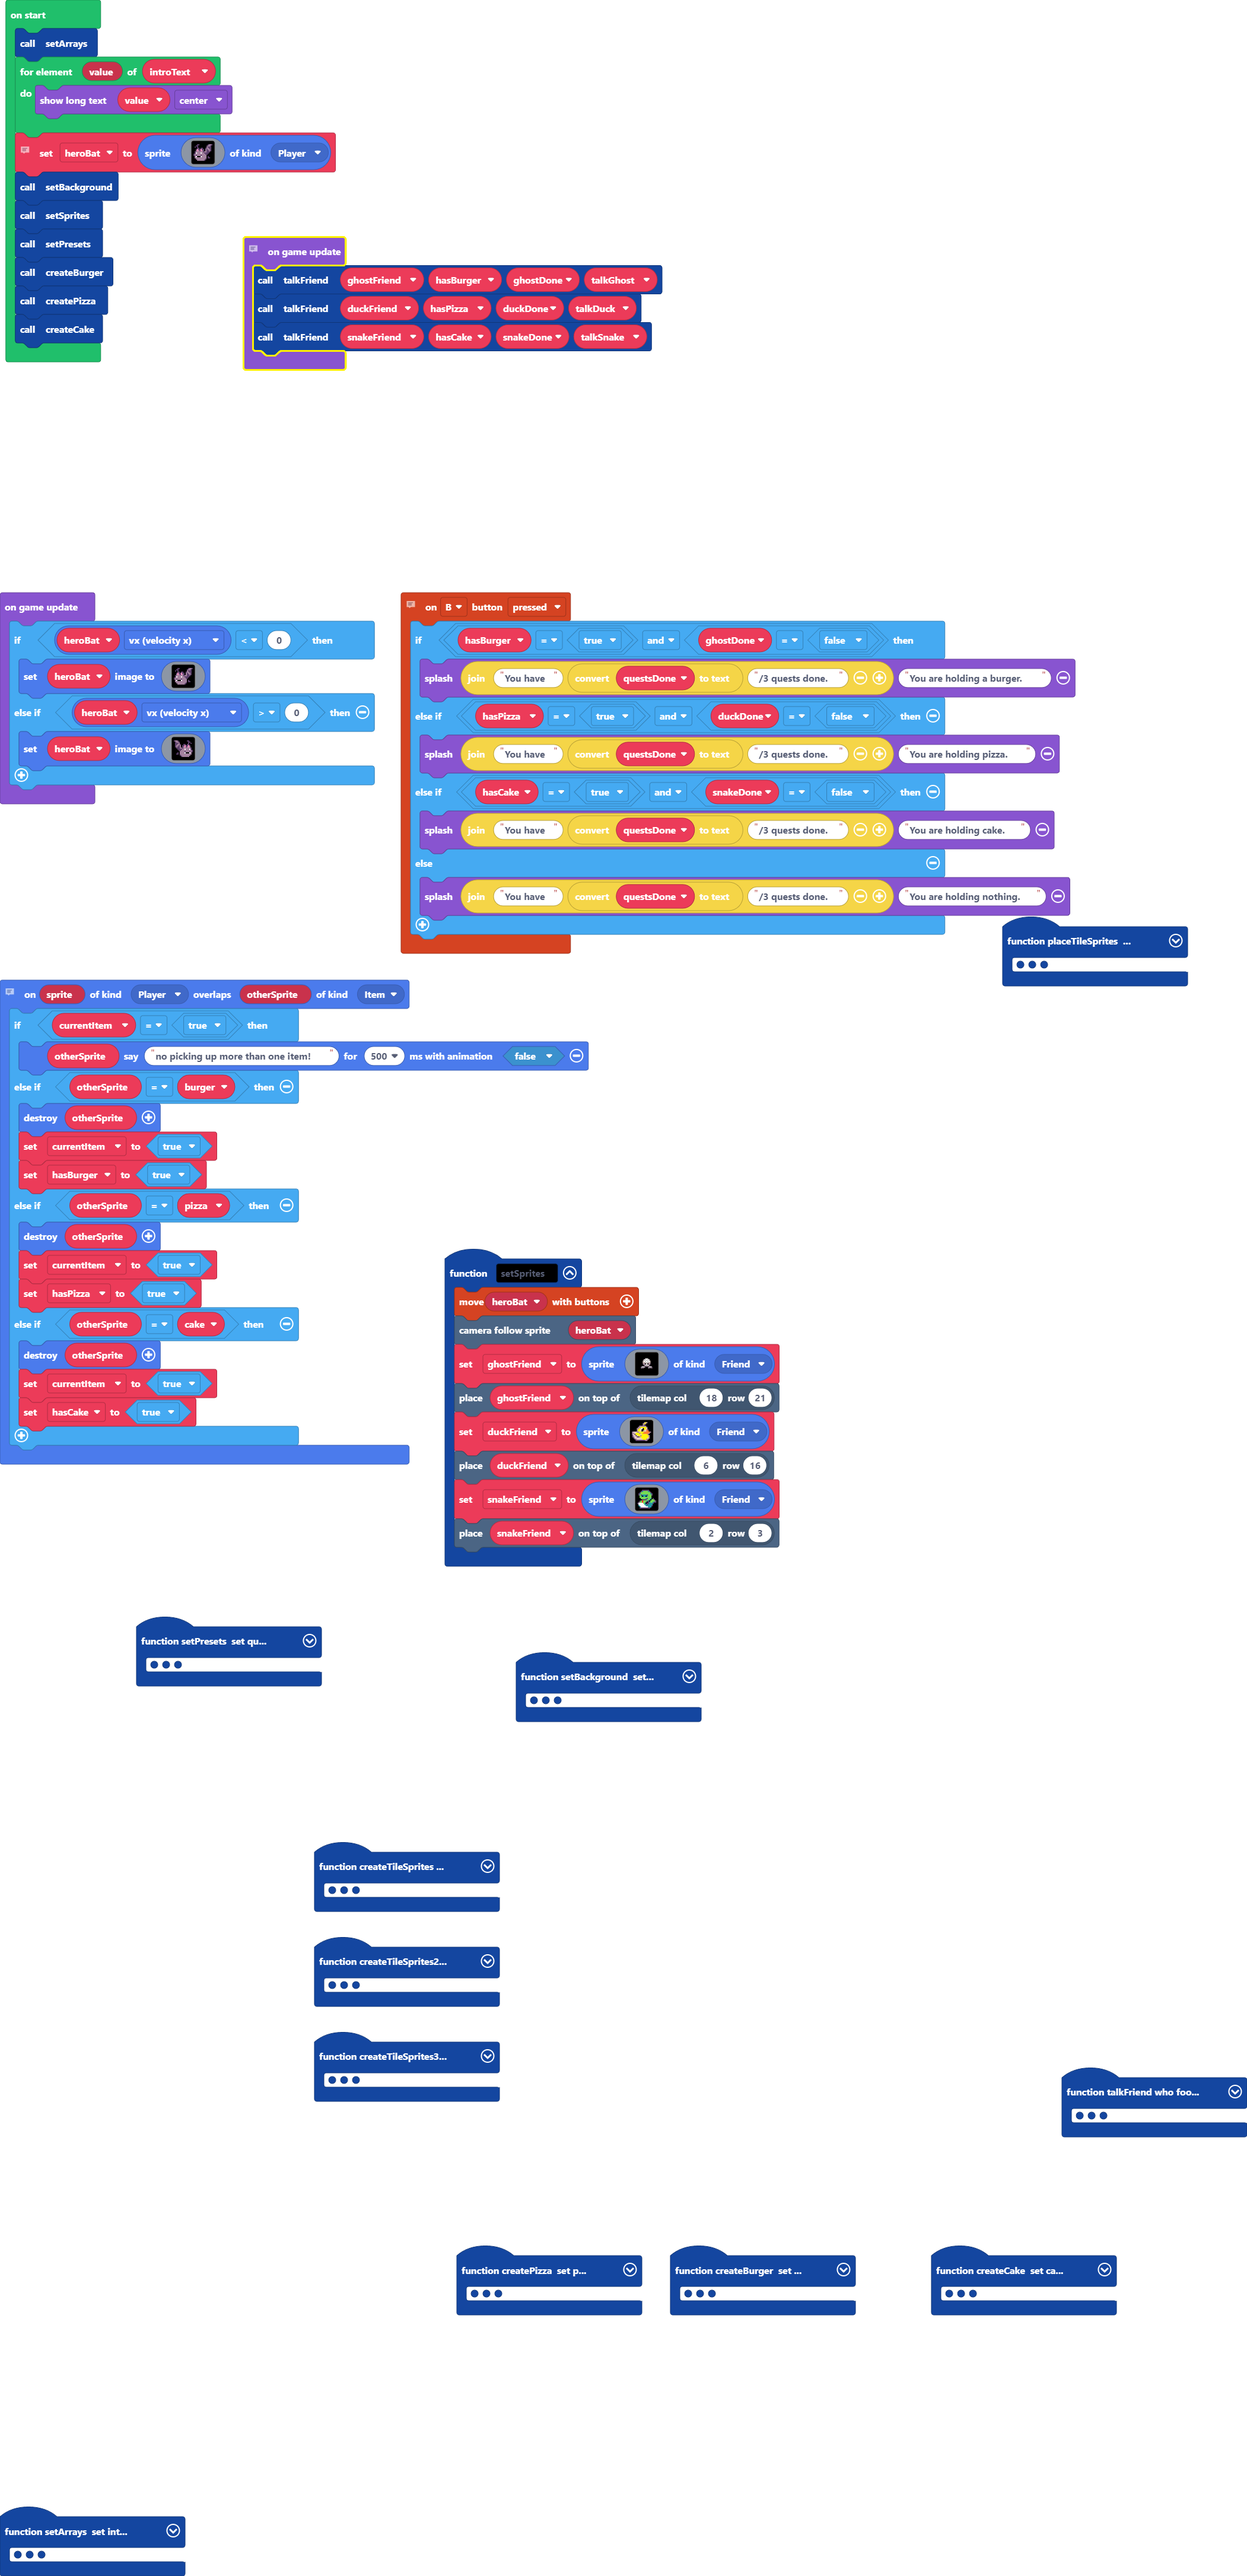
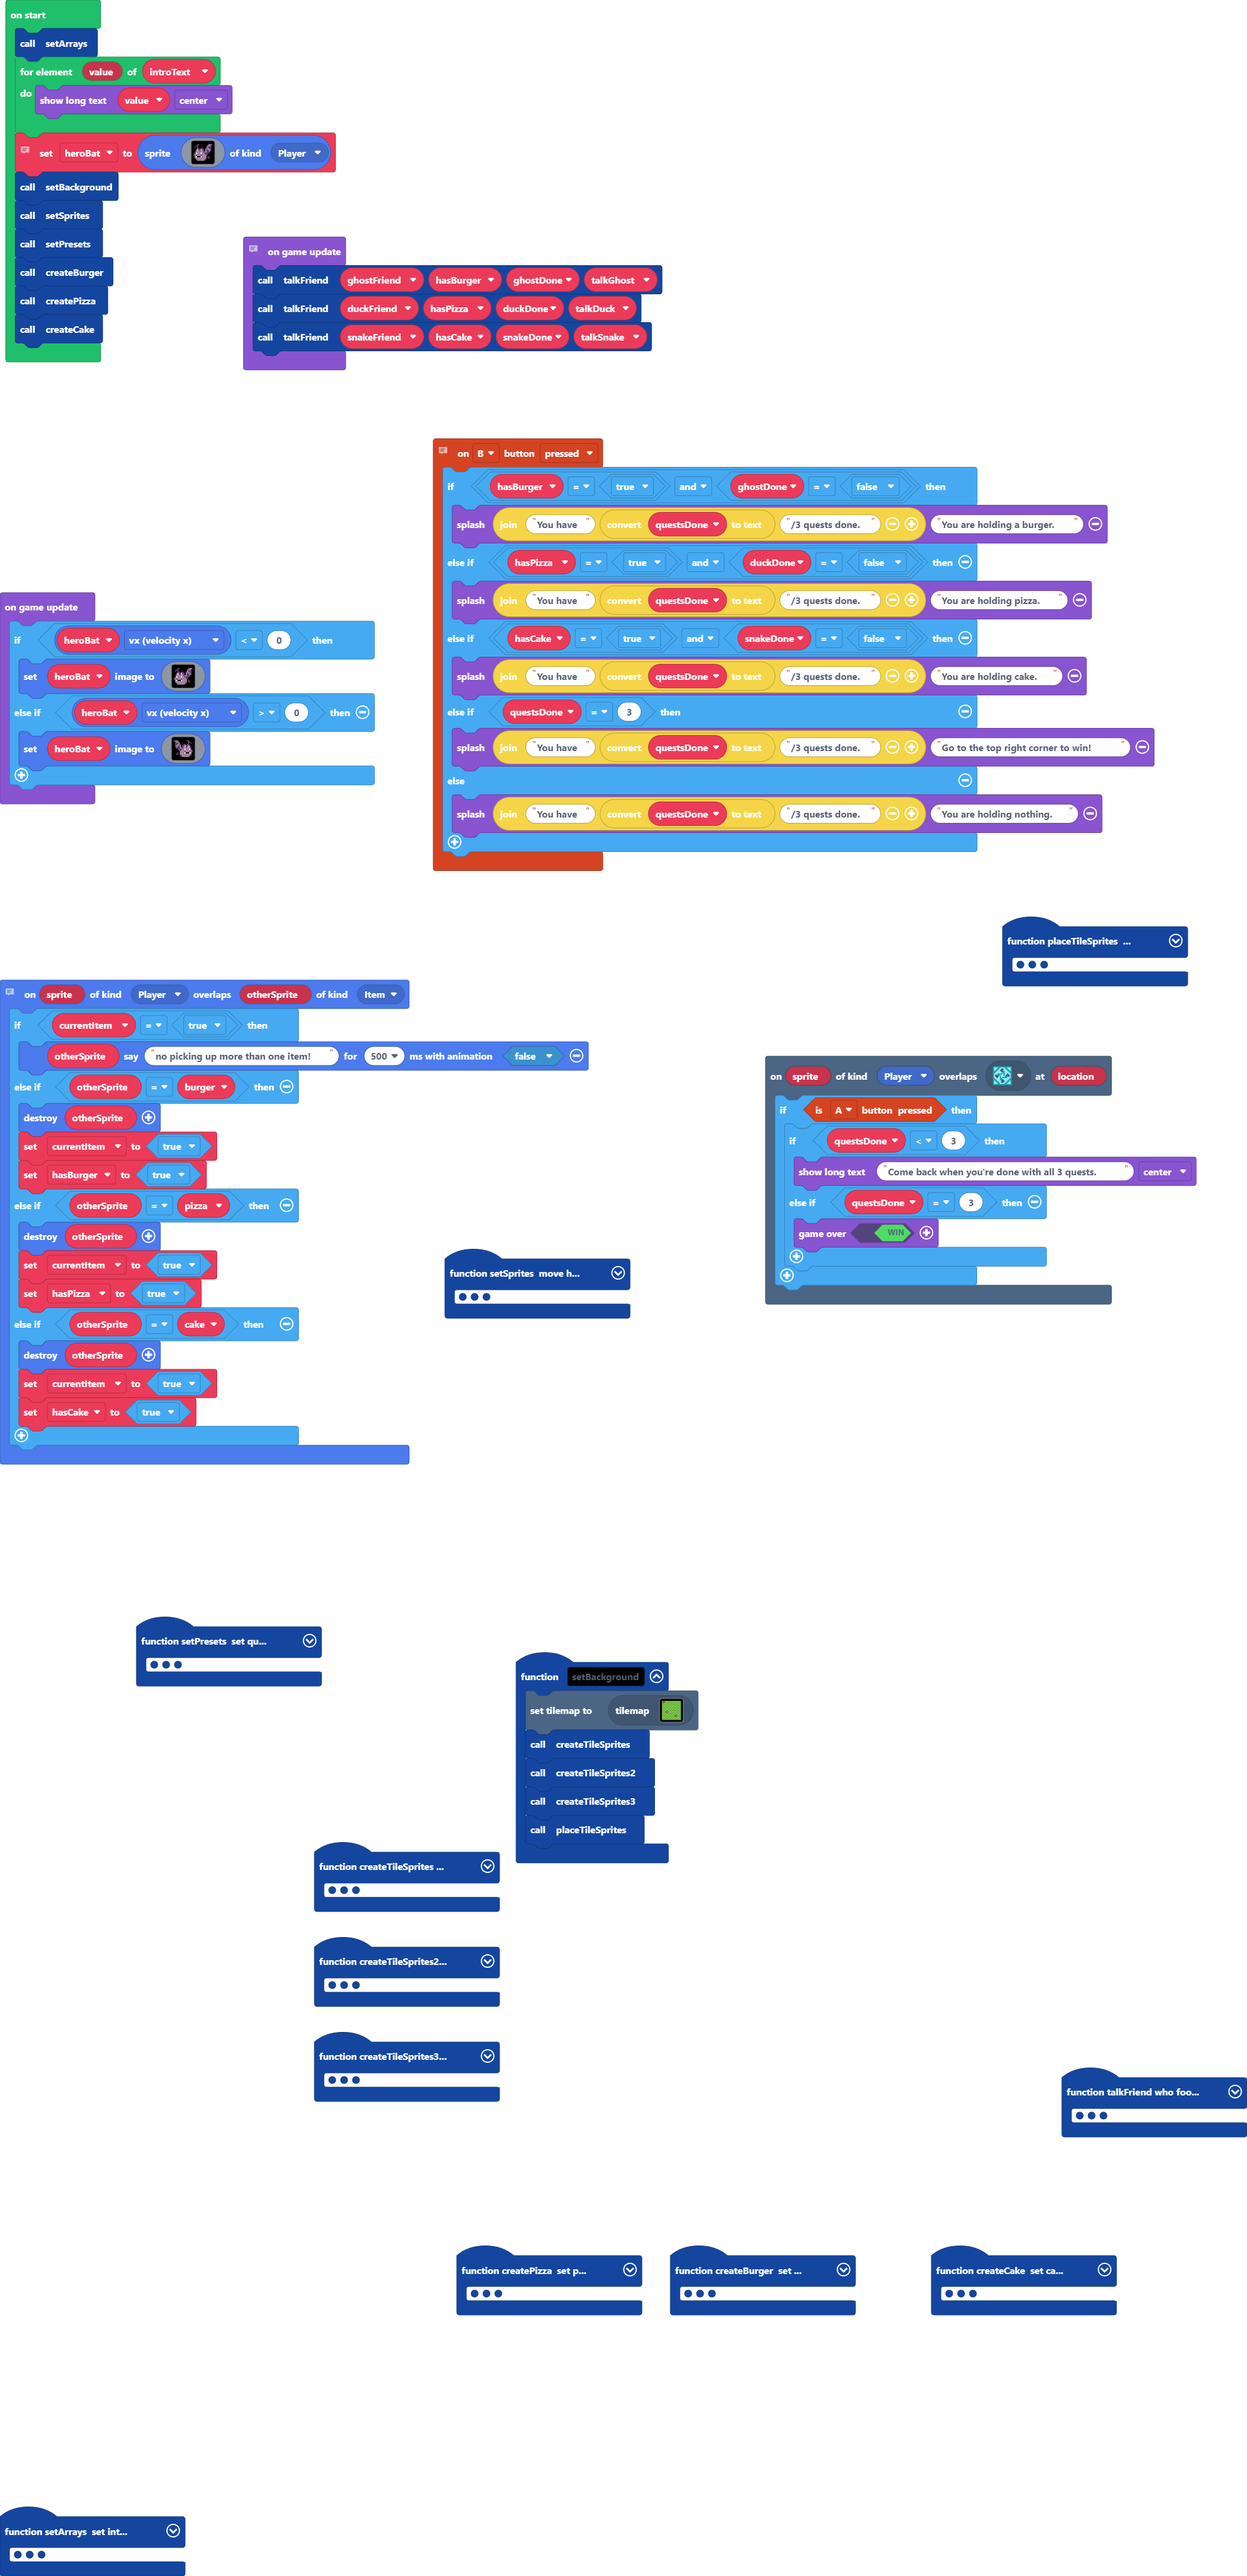
Update main.blocks, main.ts, tilemap.g.jres, tilemap.g.ts

Changed region(s): [[0.3092, 0.1555, 0.9277, 0.3731], [0.3402, 0.4042, 0.9586, 0.7462]]

diff --git a/tilemap.g.ts b/tilemap.g.ts
@@ -112,7 +112,7 @@ namespace myTiles {
 . . . . . . . . . . . . . . . . 
 `, [myTiles.transparency16], TileScale.Sixteen);
             case "level1":
[2 lines of base64/hex data omitted]
 .........................
 .........................
 .222.....................
@@ -138,7 +138,7 @@ namespace myTiles {
 .........................
 .........................
 .........................
-`, [myTiles.transparency16,sprites.castle.tileGrass3,myTiles.tile1,myTiles.tile7,myTiles.tile8,sprites.castle.tileGrass1,sprites.castle.tileGrass2,myTiles.tile2,myTiles.tile9,myTiles.tile12,myTiles.tile13,myTiles.tile14,myTiles.tile15,myTiles.tile5,myTiles.tile6,myTiles.tile10,myTiles.tile11], TileScale.Sixteen);
+`, [myTiles.transparency16,sprites.castle.tileGrass3,myTiles.tile1,myTiles.tile7,myTiles.tile8,sprites.castle.tileGrass1,sprites.castle.tileGrass2,myTiles.tile2,myTiles.tile9,myTiles.tile12,myTiles.tile13,myTiles.tile14,myTiles.tile15,myTiles.tile5,myTiles.tile6,myTiles.tile10,myTiles.tile11,sprites.dungeon.collectibleInsignia], TileScale.Sixteen);
         }
         return null;
     })

diff --git a/main.ts b/main.ts
@@ -55,6 +55,8 @@ controller.B.onEvent(ControllerButtonEvent.Pressed, function () {
         game.splash("You have " + convertToText(questsDone) + "/3 quests done.", "You are holding pizza.")
     } else if (hasCake == true && snakeDone == false) {
         game.splash("You have " + convertToText(questsDone) + "/3 quests done.", "You are holding cake.")
+    } else if (questsDone == 3) {
+        game.splash("You have " + convertToText(questsDone) + "/3 quests done.", "Go to the top right corner to win!")
     } else {
         game.splash("You have " + convertToText(questsDone) + "/3 quests done.", "You are holding nothing.")
     }
@@ -749,6 +751,15 @@ function talkFriend (who: Sprite, food: boolean, done: boolean, meet: boolean) {
         heroBat.setFlag(SpriteFlag.Ghost, false)
     }
 }
+scene.onOverlapTile(SpriteKind.Player, sprites.dungeon.collectibleInsignia, function (sprite, location) {
+    if (controller.A.isPressed()) {
+        if (questsDone < 3) {
+            game.showLongText("Come back when you're done with all 3 quests.", DialogLayout.Center)
+        } else if (questsDone == 3) {
+            game.over(true)
+        }
+    }
+})
 let rejectText: string[] = []
 let friendText: string[] = []
 let talkSnake = false
